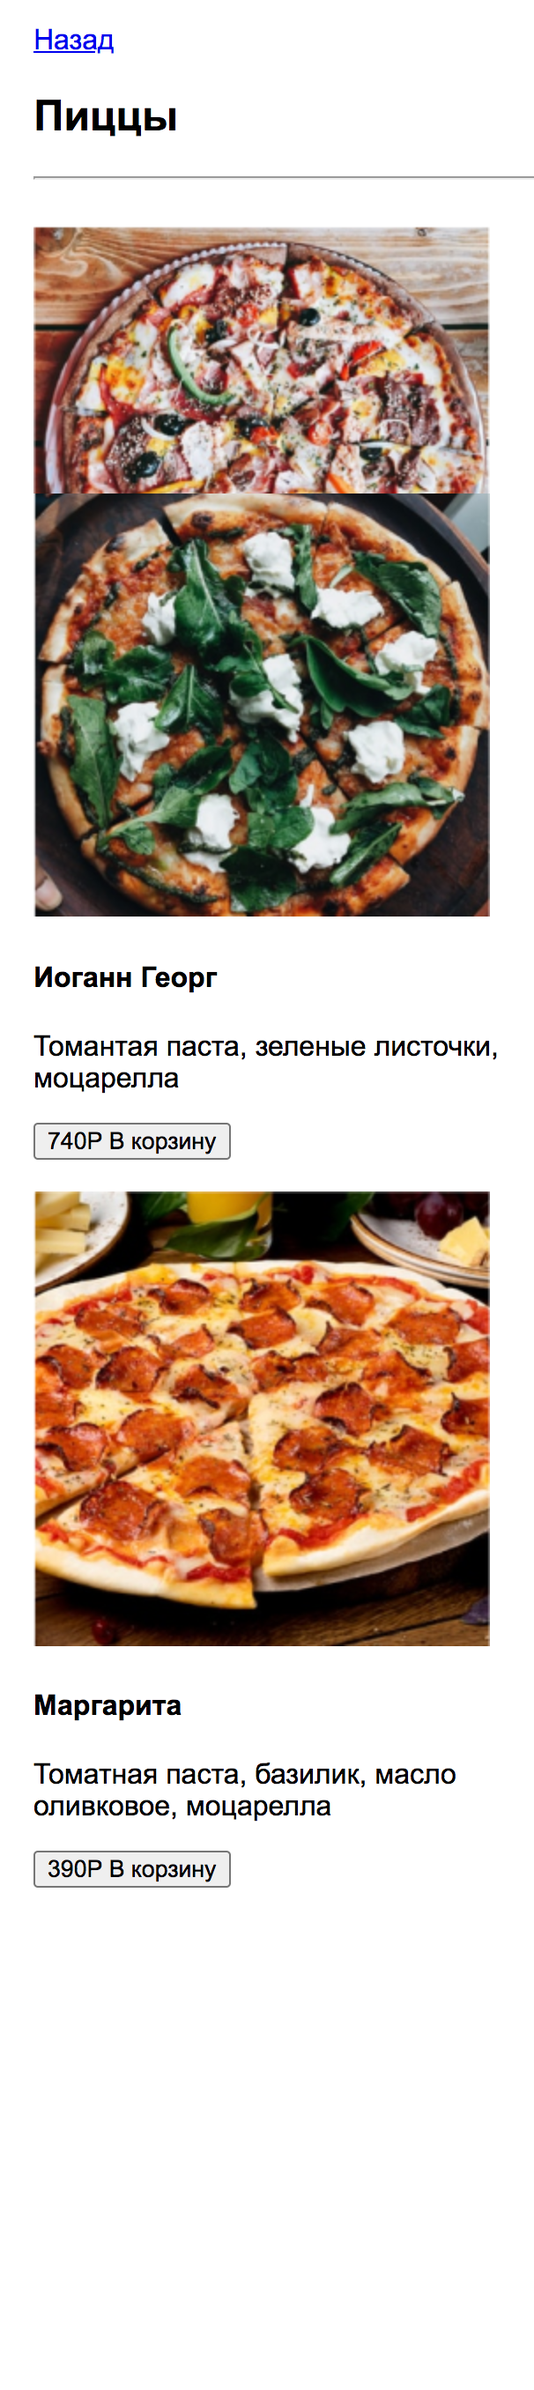
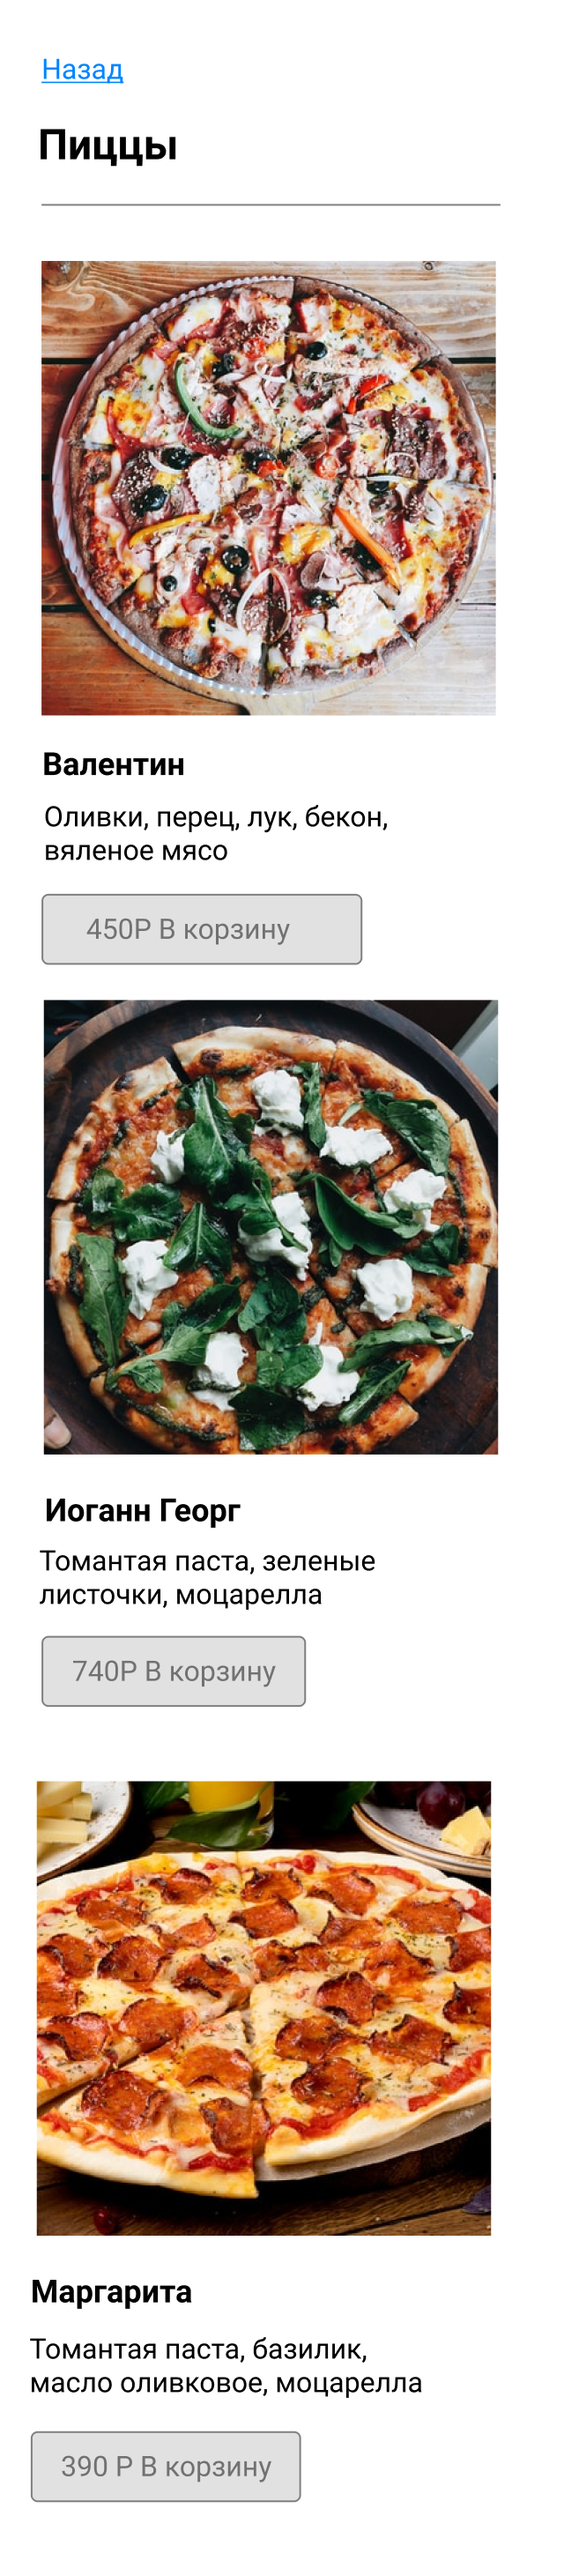
arial font

diff --git a/project/address.html b/project/address.html
@@ -1,10 +1,24 @@
-category.html<!DOCTYPE html>
+<!DOCTYPE html>
 <html lang="en">
 <head>
     <meta charset="UTF-8">
     <title>Title</title>
+    <link rel="stylesheet" href="css/style.css">
 </head>
 <body>
+
+Введите ваш адрес, куда доставить
+
+---
+
+Город
+Куда везти
+Улица
+Немного точнее
+Дом, корпус и строение
+Пожелания и примечания, если есть
+
+Продолжить
 
 </body>
 </html>

diff --git a/project/ready.html b/project/ready.html
@@ -3,8 +3,33 @@
 <head>
     <meta charset="UTF-8">
     <title>Title</title>
+    <link rel="stylesheet" href="css/style.css">
 </head>
 <body>
+
+Ваш заказ готовится!
+
+21:10 Заказан
+21:40 Выезжает
+21:50 У вас
+
+---
+
+Роллы "Мерилэнд"
+330 Р
+
+Пицца с ананасами
+504 Р
+
+Лапша ушастая
+470 Р
+
+---
+
+Всего
+1304 Р
+
+Продолжить
 
 </body>
 </html>

diff --git a/project/register-step-1.html b/project/register-step-1.html
@@ -3,11 +3,14 @@
 <head>
     <meta charset="UTF-8">
     <title>Title</title>
+    <link rel="stylesheet" href="css/style.css">
 </head>
 <body>
+
 Регистрация - шаг 1
 Просто введите номер телефона
 Телефон
 Продолжить
+
 </body>
 </html>

diff --git a/project/category.html b/project/category.html
@@ -3,6 +3,7 @@
 <head>
     <meta charset="UTF-8">
     <title>Title</title>
+    <link rel="stylesheet" href="css/style.css">
 </head>
 <body>
 

diff --git a/project/delivery.html b/project/delivery.html
@@ -3,6 +3,7 @@
 <head>
     <meta charset="UTF-8">
     <title>Title</title>
+    <link rel="stylesheet" href="css/style.css">
 </head>
 <body>
 

diff --git a/project/extra.html b/project/extra.html
@@ -3,6 +3,7 @@
 <head>
     <meta charset="UTF-8">
     <title>Title</title>
+    <link rel="stylesheet" href="css/style.css">
 </head>
 <body>
 

diff --git a/project/main.html b/project/main.html
@@ -3,6 +3,7 @@
 <head>
     <meta charset="UTF-8">
     <title>Title</title>
+    <link rel="stylesheet" href="css/style.css">
 </head>
 <body>
 

diff --git a/project/register-step-2.html b/project/register-step-2.html
@@ -3,6 +3,7 @@
 <head>
     <meta charset="UTF-8">
     <title>Title</title>
+    <link rel="stylesheet" href="css/style.css">
 </head>
 <body>
 

diff --git a/project/css/style.css b/project/css/style.css
@@ -1,0 +1,3 @@
+body {
+  font-family: arial;
+}
